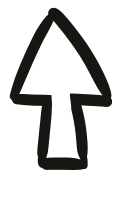
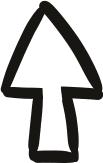
Cursors being worked on

diff --git a/Assets/Scripts/UI/ItemUIController.cs b/Assets/Scripts/UI/ItemUIController.cs
@@ -70,6 +70,7 @@ public class ItemUIController : MonoBehaviour
 
     [Header("Panels")]
     [SerializeField] Image ItemPNG;
+    [SerializeField] Texture2D DefaultCursor;
     [SerializeField] Sprite defaultItemPanelSprite;
     [SerializeField] Button EnableItemButton;
     [SerializeField] TextMeshProUGUI TextDisplay;
@@ -80,6 +81,7 @@ public class ItemUIController : MonoBehaviour
 
     private void Awake()
     {
+        UpdateCursor();
         if (inventoryItems.Count != 0)
             equippedItem = inventoryItems[0];
     }
@@ -224,11 +226,14 @@ public class ItemUIController : MonoBehaviour
 
     private void UpdateCursor()
     {
+        var cursorHotspot = GetNewHotspot((equippedItem == null ? DefaultCursor : equippedItem.cursorImage));
+        print(cursorHotspot);
         if (usingItem)
         {
             if (equippedItem.cursorImage != null)
             {
-                Cursor.SetCursor(equippedItem.cursorImage, Vector2.zero, CursorMode.Auto);
+                Cursor.SetCursor(equippedItem.cursorImage, cursorHotspot, CursorMode.Auto);
+
             }
             else
             {
@@ -238,10 +243,14 @@ public class ItemUIController : MonoBehaviour
         else
         {
             // reset to default cursor;
-            Cursor.SetCursor(null, Vector2.zero, CursorMode.Auto);
+            Cursor.SetCursor(null, cursorHotspot, CursorMode.Auto);
         }
     }
 
+    private Vector2 GetNewHotspot(Texture hotspot)
+    {
+        return new Vector2(hotspot.width / 2, hotspot.height / 2);
+    }
     private void UpdateItemColors()         // makes the circle around the item either yellow(Indicates item is in use) or white(Item not it use)
     {
         var colors = EnableItemButton.colors;

diff --git a/Assets/Scripts/EnvironmentController.cs b/Assets/Scripts/EnvironmentController.cs
@@ -12,9 +12,12 @@ public class EnvironmentController : MonoBehaviour
     [Header("Environment Overlay")]
     [SerializeField] float overlayFadeDuration;
     public Color overlayColor;
+    public AudioClip LevelSong;
 
     private void Awake()
     {
+        if (AudioManager.Instance != null)
+            AudioManager.Instance.PlayMusicwithCrossFade(LevelSong);
         timelineController = FindObjectOfType<TimelineController>();
         timelineDictionary.Add(Timeline.Past, timelineEnvironments[0]);
         timelineDictionary.Add(Timeline.Present, timelineEnvironments[1]);

diff --git a/Assets/Scripts/Level_Transition.cs b/Assets/Scripts/Level_Transition.cs
@@ -7,12 +7,9 @@ public class Level_Transition : MonoBehaviour
 {
     public bool CanTransitionLevel = true;          // require level transitions.
     public bool TouchToChangeLevel;
-    public AudioClip Song;
 
     private void Awake()
     {
-        if (AudioManager.Instance != null)
-            AudioManager.Instance.PlayMusic(Song);
         if (GameManager.instance == null)
         {
             //GameManager.StartInMainMenu = false;
